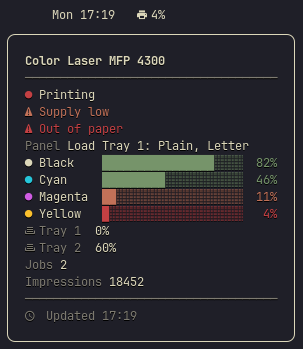
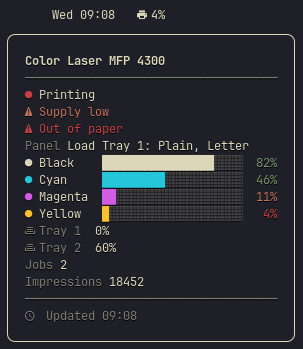
docs: retake the Waybar shots, now that the bars carry their own ink
Nine images: the desktop, both tooltips and the six themes. Every one of
them published a Black bar drawn green, a Cyan bar drawn green, Magenta
orange and Yellow red — the severity ramp the previous commit took out
of the fill. The gallery made it worst: six themes in a row, all showing
the same wrong thing.

The README paragraph on the supply gauge said the panel fills with the
colorant and Waybar only colors its level text. That was a description
of the bug, not of a decision: both frontends fill with the colorant
now, and severity stays on the level text and the meter outline.

The light theme is the one to check when this changes again: black ink
lifts to the theme's text color, so in flexoki-light the Black bar is
really black, and in the dark themes it is the pale foreground.

diff --git a/README.md b/README.md
@@ -172,7 +172,7 @@ supply_critical = 5
 #custom-printbar.offline  { color: #5c6370; }
 ```
 
-Those two numbers also set the supply gauge. A supply at or below `supply_critical` is critical, at or below `supply_low` is warn, and a higher value is ok. The core decides that `state` one time. Both frontends render the same verdict, but they show it in different ways. The Waybar tooltip gives the level text a severity color. The panel paints each meter in the **physical color of the colorant**, because cyan toner is cyan. The severity moves to the outline of the meter. A red-to-green ramp made an almost empty cartridge and a full one difficult to tell apart.
+Those two numbers also set the supply gauge. A supply at or below `supply_critical` is critical, at or below `supply_low` is warn, and a higher value is ok. The core decides that `state` one time. Both frontends render the same verdict, and both fill each meter with the **physical color of the colorant**, because cyan toner is cyan. A red-to-green ramp over the fill made an almost empty cartridge and a full one difficult to tell apart, and it also gave a green bar to a row that says Black. The severity stays visible, but away from the fill: the Waybar tooltip gives it to the level text, and the panel gives it to the outline of the meter.
 
 ### Click actions and notifications
 
